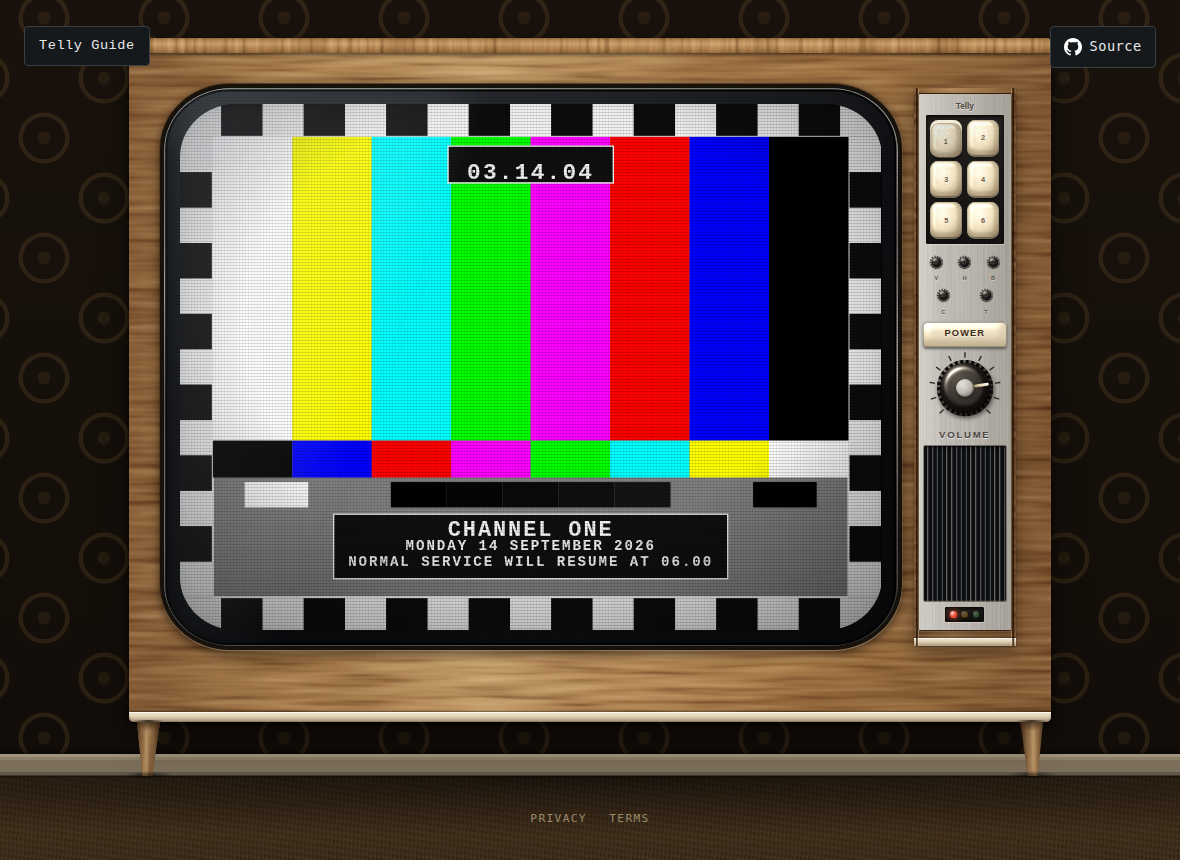
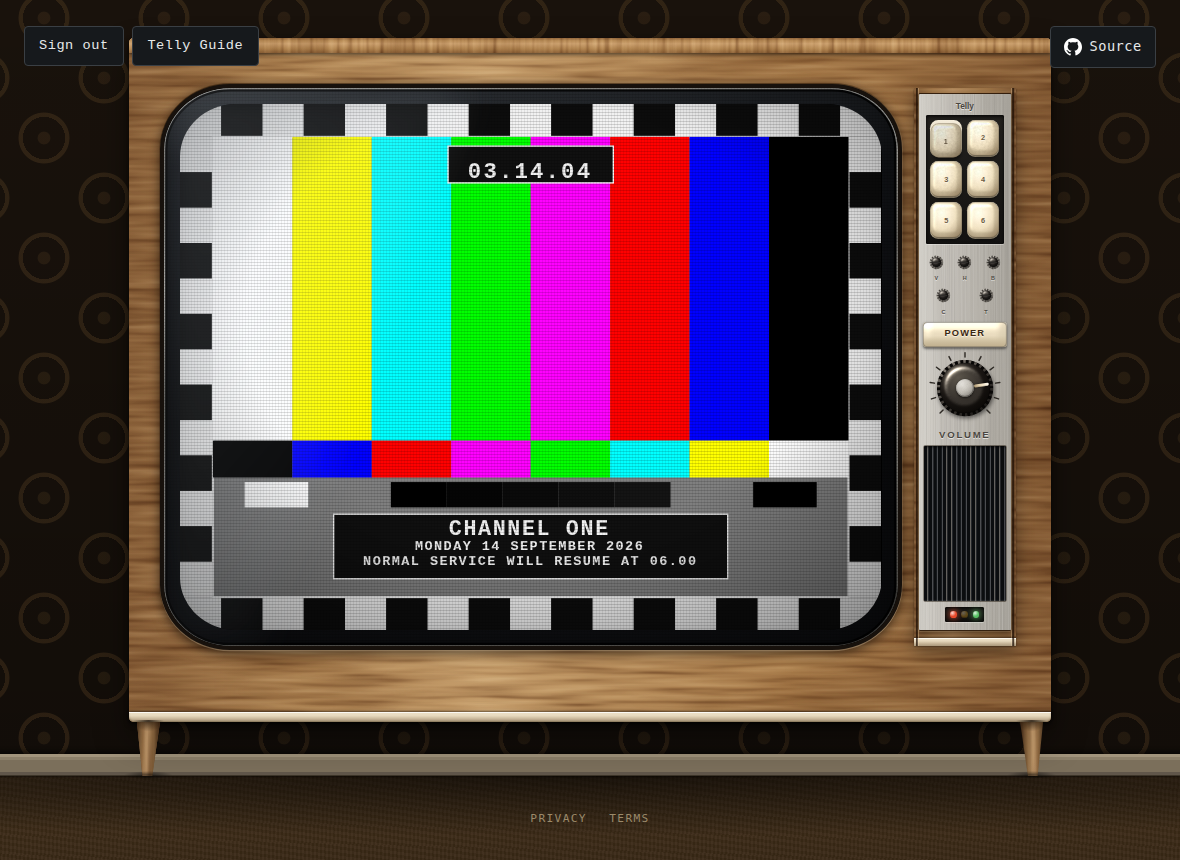
docs: trim the README, render the triage diagram, restore the Filler comment (#10)
## What this changes

- **The README is cut back to using and running telly.** It keeps what
the set is, how to run it, how to connect your subscriptions, the five
channels, and links to the privacy policy and terms. The scheduling
model, the card designs, the layout, the release process and the hosting
setup are already in `docs/architecture/`. The domain setup, why the
domain exists, and why no response headers are set were only in the
README, so they move to `release-process.md`, and threat-model rows T2,
T15 and T18 and `technologies.md` point there instead.
- **The README screenshot is retaken.** The old one came from the
fixture mode that no longer exists, so its corner showed only the Telly
Guide. The new one is the same moment on the same card, signed in, so
the corner shows Sign out and Telly Guide as it does in use.
- **The error triage diagram in `docs/architecture/google.md` renders.**
It named a node `call`, which is a Mermaid flowchart keyword, so the
diagram failed to parse. The node is `request` now.
- **`src/domain/schedule.ts` gets main's pre-#3 comment on `Filler`
back** word for word. #3's only real change there was removing
`Continuity`.

## How it was verified

- [x] `npm run test:ci`: 986 tests, 12 DST tests
- [x] `npm run typecheck`
- [x] `npm run lint`
- [x] Looked at it in a browser (if it loads, plays or paints)

The diagrams in `google.md` and `release-process.md` were run through
[…]

diff --git a/src/domain/schedule.ts b/src/domain/schedule.ts
@@ -20,14 +20,12 @@ export interface Programme {
 }
 
 /**
- * A gap, and there are only three kinds.
+ * A gap.
  *
  * `closedown` is the station off air for the night and `interlude` is a gap
- * long enough to be worth the card. `ident` is the short one: the station's
+ * long enough to be worth the card. `ident` is the short one: a station
  * symbol, held for a minute or two to bring the next programme up onto the
- * hour or the quarter. That last one is the whole of what a station did with
- * a couple of spare minutes. It did not print a caption saying what was
- * coming; it put its own mark up and started the next thing on the mark.
+ * hour or the quarter.
  */
 export interface Filler {
   kind: 'filler'

diff --git a/README.md b/README.md
@@ -6,23 +6,6 @@ and see what's on. When nothing is on, you get the test card.
 
 ![The set at closedown, showing the colour bars test card](docs/set-closedown.png)
 
-## The one idea
-
-Wall-clock time is the only input. The app never asks *what shall we play next?*
-It asks **what should be on air at 14:32:07, and how far into it are we?**
-
-That question gives you join-in-progress, closedown, overruns and the test card
-for nothing, and it collapses the whole thing into two pure functions:
-
-```ts
-plan(pool, options) -> Schedule      // deterministic, once per broadcast day
-tune(schedule, now) -> OnAir         // pure, called every tick
-```
-
-Everything else — sign-in, the API, IndexedDB, the iframe player, WebAudio — is
-I/O bolted to the edges. A whole broadcast day is provable in a millisecond,
-with no network, no browser and no real clock.
-
 ## Running it
 
 Needs **Node 20.19+ or 22.12+** (a Vite requirement); `.nvmrc` pins 24. Distro
@@ -58,12 +41,6 @@ A **Sign in with Google** button then appears. Until it does, the set shows the
 fault card: `.env.local` is deliberately not in the repository, so a fresh
 clone on a second machine has no client ID and therefore nothing to sign in to.
 
-The wording is Google's to choose, not ours: their branding guidelines permit a
-closed set of labels, and a more honest one like "Use my subscriptions" is not
-on it. Google's script is fetched on mount rather than on the click, because a
-popup must be traceable to a user gesture and that gesture does not survive a
-network round-trip.
-
 Signing in again is not needed on every visit: the browser records that consent
 was given here, and a later page load takes the grant up without a screen.
 Google expires the grant itself after a week while the app is unverified, so
@@ -71,10 +48,6 @@ the button comes back about that often. **Sign out** hands the grant back to
 Google and empties the schedule data this browser saved.
 
 Security posture, and what is stored where, is in [SECURITY.md](SECURITY.md).
-
-A daily refresh over ~200 subscriptions costs about 290 of the 10,000-unit
-quota, because IDs are batched 50 at a time. The breakdown is in
-[docs/architecture/google.md](docs/architecture/google.md).
 
 ## Five channels
 
@@ -104,170 +77,10 @@ until your subscriptions are in and five days have been planned off them. A set
 switched on while that is happening holds the station's ident, which is what a
 station with nothing to hand out yet put up.
 
-## How a day is built
-
-The broadcast day runs **06:00 → 06:00**, and positions within it are integer
-offsets from that anchor, so scheduling arithmetic has no wrapping, no timezone
-and no `Date` in it. Each station divides its day into its own parts — the full
-tables are in [docs/architecture/stations.md](docs/architecture/stations.md).
-
-**News starts on time; everything else floats.** A programme may overrun and
-push the schedule along, but a *junction* begins at its appointed second and
-anything running into it is cut short, exactly like being taken off air to go
-over to the news.
-
-Nothing age-rated goes out before nine and nothing made for children goes out
-after six, both read straight off the API. A station with a handful of
-suppliers and nineteen hours to fill repeats, twice a day at most and four
-hours apart, and the listings print (R) against it.
-
-A programme that ends at 20.57 leaves three minutes, and what a station does
-with three minutes is put its own ident up and start the next one at nine. Each
-station has its own, and they are five different mechanisms rather than five
-colours of one.
-
-Padding to a junction is the ident too, up to the three minutes a station
-would hold one for; longer gaps become the card, and a daypart with nothing
-eligible fills with card. A station that has run out
-is showing the card, which is both the honest outcome and the thematically
-correct one.
-
-## The cards
-
-Five designs, picked from the date, so a card lasts a whole broadcast day and
-every set tuned to a station shows the same one with no state anywhere to
-drift. Each station rotates through its own two or three, so tuning around
-looks different as well as sounding different.
-
-| | |
-|---|---|
-| `electronic` | the line-up chart: castellations, gratings, colour bars, greyscale wedge, convergence target |
-| `bars` | full-height colour bars, a reversed complement band, and a PLUGE strip for setting black level |
-| `monoscope` | monochrome resolution chart with a Siemens star at the centre |
-| `crosshatch` | white grid on black, for convergence and geometry |
-| `ident` | the station card: concentric colour rings and the channel name |
-
-All five are original artwork in the idiom. None reproduces an existing card or
-any broadcaster's marks — that vocabulary (colour bars, castellations, greyscale
-wedges) is standardised engineering convention and free to use; the specific
-cards people remember are authored works and are not.
-
-The card is the channel's **default state, not its error state**. It sits under
-every programme and the picture is revealed over it only once the player reports
-one actually playing. That is positive confirmation rather than error detection,
-which matters because YouTube fails quietly.
-
-![A programme slot with nothing streamable](docs/set-programme.png)
-
-## Seeing a particular hour
-
-Most of what a schedule does happens at hours you are not awake for, and the
-set has no way to jump to them. It does not need one: nothing in `src/` calls
-`new Date()` except `SystemClock`, so time is an argument.
-
-A test hands `App` a `FakeClock` and drives the day by hand:
-
-```ts
-const clock = new FakeClock(new Date(2026, 8, 9, 1, 40))
-render(<App clock={clock} />)          // closedown on one, the clip show on five
-act(() => clock.set(new Date(2026, 8, 9, 11, 58)))   // the lunchtime junction
-```
-
-There is no query parameter and no dev-only route, because a second mechanism
-for something the seam already does is a second mechanism to keep honest.
-
-## Layout
-
-```
-src/
-  domain/      the shared vocabulary: time, dayparts, videos, schedule, on-air
-  schedule/    the classifier interface and the packer
-  programming/ the five stations: genre, profiles, the draft, what goes where
-  broadcast/   tune() — wall clock in, what-is-on-air out
-  player/      the YouTube IFrame API, behind a seam
-  library/     subscriptions -> uploads -> videos; cached in IndexedDB
-  testcard/    the five card designs, their geometry, and the renderer
-  audio/       the line-up tone, the hiss, and the noises the cabinet makes
-  ui/          the screen, and the cabinet it sits in
-test/          the tests, mirroring src/; the fakes and the fixture pool in support/
-```
-
-The cabinet is drawn, not photographed: teak grain and the highlights on the
-knob and buttons are SVG filters — `feTurbulence` and `feSpecularLighting` — so
-there are no image assets and it stays sharp at any size.
-
-## Deploying it
-
-Releases are tagged, and a tag is what publishes.
-
-1. A pull request merges to `main`.
-2. `bumpversion.yml` reads the conventional commits since the last tag, works
-   out the increment, writes `CHANGELOG.md`, commits `chore(release): x.y.z`
-   and tags `vx.y.z`. A docs-only merge warrants no release and it exits
-   without one, which is a normal outcome rather than a failure.
-3. The tag fires `release.yml`, which calls the same reusable workflows a pull
-   request runs — `analysers.yml`, `tests.yml`, `codeql.yml` — against the
-   tagged commit, then builds, publishes `dist/` to GitHub Pages, and cuts a
-   GitHub release last, so a release only exists once the thing it names is
-   live.
-
-So the version, the changelog, the tag, the site and the release all describe
-one commit, and an accidental publish is not reachable from ordinary
-development: nothing in `release.yml` runs on a push or a pull request.
-
-`commit-and-tag-version` rather than commitizen: same convention, but this is a
-TypeScript stack and the version lives in `package.json` like every other tool
-here. A Python tool to read JavaScript commits would be a second toolchain to
-install, pin and explain.
-
-Three things live outside the repository:
-
-- **The client ID.** `VITE_YOUTUBE_CLIENT_ID`, a variable on the
-  `github-pages` environment. A variable rather than a secret, because it is
-  inlined into a public bundle and marking it secret would only hide it from
-  the build log. The `build` job joins that environment and reads it, and that
-  job runs behind `needs: [checks, tests, codeql]`, so a missing setting is
-  reported only once those have passed.
-- **The release App.** `COMMITLINT_CLIENT_ID` (a variable, holding the App's
-  numeric id) and `COMMITLINT_CLIENT_SECRET` (a secret, holding the App's
-  private key — the `.pem`, not the OAuth client secret it sits beside) on the
-  `commitlint` environment, from a GitHub App installed on this repository with
-  **contents: write**. This is not
-  a preference: GitHub deliberately does not fire workflows for pushes made
-  with the default `GITHUB_TOKEN`, so a bump authenticated that way would push
-  the tag and `release.yml` would never run — the site would quietly stop
-  updating with no error anywhere. An App installation token does trigger
-  downstream workflows, and unlike a personal access token it is short-lived,
-  scoped to this repository, and not tied to anybody's account.
-- **The domain.** `public/CNAME` names `telly.na-n.xyz`. The matching DNS
-  record is a CNAME at the registrar — host `telly`, value
-  `coolhandle01.github.io.` — and Settings → Pages → Custom domain has to hold
-  the same name for GitHub to issue the certificate. Tick **Enforce HTTPS**
-  once its check passes.
-
-The domain is a Google requirement rather than a hosting one. Authorised
-domains are verified in Search Console as a Domain property over DNS TXT, and
-that is impossible for `*.github.io` because you do not control its DNS. So
-`na-n.xyz` is verified at the registrar, `telly.na-n.xyz` is the homepage, and
-`https://telly.na-n.xyz` is the one authorised JavaScript origin on the OAuth
-client. Once the custom domain is set GitHub redirects the `github.io` address
-to it, so there is no second origin to keep in step.
-
-No response headers are set. GitHub Pages offers no control over them, and here
-that costs nothing: the default `Cross-Origin-Opener-Policy` is `unsafe-none`,
-which is exactly what the sign-in popup needs. Setting `same-origin` from a
-generic hardening checklist nulls `window.opener` in the popup and the callback
-never arrives — silently, with no console error. A host with a `_headers` file
-is the move if headers ever become necessary; nothing here requires them.
-
 ## Terms and privacy
 
-`public/privacy/` and `public/terms/` are served with the site, and the footer
-links them as `privacy/index.html` and `terms/index.html` — the file, so the
-link resolves on a server that does not serve directory indexes as well as on
-one that does. `/privacy/` and `/terms/` work too, and those are the URLs the
-OAuth consent screen points at. They say what telly reads, where it goes —
-nowhere — and what YouTube's own player does, which is a separate matter.
+The [privacy policy](https://telly.na-n.xyz/privacy/) and the
+[terms](https://telly.na-n.xyz/terms/) are served with the site.
 
 ## Licence
 

diff --git a/docs/architecture/threat-model.md b/docs/architecture/threat-model.md
@@ -131,7 +131,7 @@ origin, and everything on the far side of B7 is this one.
 | # | Element · STRIDE | Attacker capability | Impact | CWE | Response | Where it lives |
 |---|---|---|---|---|---|---|
 | T1 | Viewer identity · **S** | none | The app authenticates nobody. Identity is the Google session in the browser, and authorisation is a consent the viewer grants to a scope. The one identity it does learn is `ownerId()`, the signed-in account's own channel id, which keys the cache and is inside the scope already granted. | CWE-287 | **Transfer**: to Google Identity Services | `GoogleTokenProvider` in [googleTokenProvider.ts](../../src/library/googleTokenProvider.ts), `YouTubePoolSource.ownerId` in [youTubePoolSource.ts](../../src/library/youTubePoolSource.ts) |
-| T2 | Consent flow · **S** | Hosts a page that presents the same public client ID | A consent granted on an attacker's page yields a token to that page. The client ID is public by design; the authorised-JavaScript-origins list on the OAuth client is what refuses the request, and it names `https://telly.na-n.xyz` alone. | CWE-346 | **Transfer**: to Google's origin check on the OAuth client | [tokens.md](tokens.md), [README.md:240-242](../../README.md) |
+| T2 | Consent flow · **S** | Hosts a page that presents the same public client ID | A consent granted on an attacker's page yields a token to that page. The client ID is public by design; the authorised-JavaScript-origins list on the OAuth client is what refuses the request, and it names `https://telly.na-n.xyz` alone. | CWE-346 | **Transfer**: to Google's origin check on the OAuth client | [tokens.md](tokens.md), [release-process.md](release-process.md#the-domain-and-the-headers-it-does-not-set) |
 | T3 | GIS script flow · **T** | Sits on the network between the browser and `accounts.google.com` | Arbitrary JavaScript in the origin that holds the token. The script URL is `https://` and fixed, and `script-src` names the host. | CWE-494 | **Mitigate** | `GIS_SCRIPT_URL` in [googleTokenProvider.ts](../../src/library/googleTokenProvider.ts), CSP at [index.html:10](../../index.html) |
 | T4 | Token in the page · **I** | Runs any script in this origin | Read of the viewer's subscriptions for the token's remaining hour. The scope is read-only and no refresh token exists. `connect-src` permits only `self`, `googleapis.com` and `accounts.google.com`, which closes fetch, `XMLHttpRequest`, `WebSocket`, `EventSource` and `sendBeacon` to every other host. It does not reach top-level navigation or `window.open`, so a script in this origin carries the token out in a URL, and no directive covers that: `navigate-to` left CSP Level 3 in September 2022 and shipped in no browser. The hour and the read-only scope are what bound this threat; the policy narrows it. An expired token is dropped rather than kept as a fallback, and there is no renewal to attempt: a token comes from a popup, which comes from a click. | CWE-522 | **Mitigate** | `#token`, `EXPIRY_MARGIN_MS`, `GoogleTokenProvider.getAccessToken` and `signOut` in [googleTokenProvider.ts](../../src/library/googleTokenProvider.ts); [index.html:14](../../index.html) |
 | T35 | Token at rest · **I** | Has the unlocked machine, or runs code in this origin | The token is written to this tab's `sessionStorage` under `telly.google.token`, with the moment it expires, because nothing else can cross a reload: the only way to obtain one is a popup and a page load has no gesture to open one with. Holding it in memory alone was a decision to sign the viewer out on every refresh. What is exposed is a bearer token for a read-only scope that Google already limits to an hour, readable by anything already running in this origin, which is the same reach it has over the token in the page (T4). The record dies with the tab, a restored token past its hour is dropped rather than adopted, and signing out removes it whatever the revocation answers. | CWE-522 | **Accept**: the reload has to carry something, and the token is the only thing that can; the window is the tab's life or the hour, whichever ends first | `TOKEN_KEY`, `rememberToken`, `storedToken`, `resume` and `#discard` in [googleTokenProvider.ts](../../src/library/googleTokenProvider.ts), [tokens.md](tokens.md) |
@@ -162,7 +162,7 @@ origin, and everything on the far side of B7 is this one.
 | # | Element · STRIDE | Attacker capability | Impact | CWE | Response | Where it lives |
 |---|---|---|---|---|---|---|
 | T14 | `gsi/client` and `iframe_api` · **T** | Changes what `accounts.google.com` or `www.youtube.com` serves | Either script runs as first-party code beside the in-memory token, with the origin's IndexedDB and DOM. Both are unversioned, so neither carries an SRI hash. CSP is the containment that remains, and it is partial: `default-src 'none'`, `script-src` pinned to `self` and those two hosts, `object-src 'none'`, `base-uri 'self'`, `form-action 'none'`, `connect-src` naming three hosts. It governs what is fetched, framed, submitted and loaded as script. It governs no navigation at all, so script running here reaches any host by navigating to it. The page's own navigations are three anchors to constants: the two legal pages, same-origin, and the source link. The policy ships in the built artefact as well as in source. | CWE-829 | **Accept**: Google already holds the token by virtue of issuing it, and GIS is the only route to one for a browser client with no backend | [index.html:5-19](../../index.html), `dist/index.html` |
-| T15 | Response headers · **T** | none | GitHub Pages sets no response headers, and the defaults are the ones sign-in needs: `Cross-Origin-Opener-Policy` defaults to `unsafe-none`, which keeps `window.opener` alive for the consent popup, and cross-origin isolation is absent, which is what lets `gsi/client` load at all. The policy therefore travels in the document. | CWE-693 | **Accept**: the two headers a hardening checklist would add are the two that break this flow silently | [google.md](google.md), *Verification*; [README.md:244-249](../../README.md) |
+| T15 | Response headers · **T** | none | GitHub Pages sets no response headers, and the defaults are the ones sign-in needs: `Cross-Origin-Opener-Policy` defaults to `unsafe-none`, which keeps `window.opener` alive for the consent popup, and cross-origin isolation is absent, which is what lets `gsi/client` load at all. The policy therefore travels in the document. | CWE-693 | **Accept**: the two headers a hardening checklist would add are the two that break this flow silently | [google.md](google.md), *Verification*; [release-process.md](release-process.md#the-domain-and-the-headers-it-does-not-set) |
 | T16 | Outbound link · **I** | Controls the linked page | `target="_blank"` hands `window.opener` to the opened page. The link carries `rel="noreferrer noopener"` and its `href` is a constant. | CWE-1022 | **Mitigate** | `SourceLink` in [SourceLink.tsx](../../src/ui/SourceLink.tsx), `SOURCE_URL` in [App.tsx](../../src/App.tsx) |
 
 ### B4: the hosted bundle
@@ -170,7 +170,7 @@ origin, and everything on the far side of B7 is this one.
 | # | Element · STRIDE | Attacker capability | Impact | CWE | Response | Where it lives |
 |---|---|---|---|---|---|---|
 | T17 | Published bundle · **T** | Serves content at `telly.na-n.xyz` | A substituted bundle runs on the one origin the OAuth client authorises, so it obtains tokens for this client ID while the viewer reads the real domain on the consent screen. The site is published only from a tagged release's artefact, and the custom domain is pinned in the repository. | CWE-494 | **Mitigate** | [release.yml:5-7](../../.github/workflows/release.yml), [:88-98](../../.github/workflows/release.yml), [public/CNAME](../../public/CNAME) |
-| T18 | Domain · **S** | Claims the `telly` CNAME target, or the registrar account | Identical to T17, and from outside the repository. The DNS record, the Pages custom domain and `public/CNAME` all name the same host, and HTTPS is enforced on it. | CWE-350 | **Transfer**: to the registrar and to GitHub's custom-domain verification | [README.md:232-242](../../README.md) |
+| T18 | Domain · **S** | Claims the `telly` CNAME target, or the registrar account | Identical to T17, and from outside the repository. The DNS record, the Pages custom domain and `public/CNAME` all name the same host, and HTTPS is enforced on it. | CWE-350 | **Transfer**: to the registrar and to GitHub's custom-domain verification | [release-process.md](release-process.md#the-domain-and-the-headers-it-does-not-set) |
 | T19 | Host logs · **I** | GitHub | Request IPs and times. The app transmits nothing to this host beyond fetching the bundle: there is no backend, no analytics and no beacon. | CWE-359 | **Accept**: hosting is a static-file fetch and the record is GitHub's, as the privacy policy states | [public/privacy/index.html](../../public/privacy/index.html) |
 
 ### B5: repository and CI

diff --git a/docs/architecture/release-process.md b/docs/architecture/release-process.md
@@ -216,6 +216,28 @@ changing, and a poor score cannot block a merge or a release. How to run it
 usefully, and why a very low score usually means a broken harness rather than a
 bad suite, is in [testing.md](testing.md).
 
+## The domain, and the headers it does not set
+
+`public/CNAME` names `telly.na-n.xyz`. The matching DNS record is a CNAME at the
+registrar: host `telly`, value `coolhandle01.github.io.`. Settings, Pages,
+Custom domain has to hold the same name for GitHub to issue the certificate.
+Tick **Enforce HTTPS** once its check passes.
+
+The domain is a Google requirement rather than a hosting one. Authorised
+domains are verified in Search Console as a Domain property over DNS TXT, and
+that is impossible for `*.github.io` because you do not control its DNS. So
+`na-n.xyz` is verified at the registrar, `telly.na-n.xyz` is the homepage, and
+`https://telly.na-n.xyz` is the one authorised JavaScript origin on the OAuth
+client. Once the custom domain is set GitHub redirects the `github.io` address
+to it, so there is no second origin to keep in step.
+
+No response headers are set. GitHub Pages offers no control over them, and here
+that costs nothing: the default `Cross-Origin-Opener-Policy` is `unsafe-none`,
+which is what the sign-in popup needs. Setting `same-origin` from a generic
+hardening checklist nulls `window.opener` in the popup and the callback never
+arrives, silently, with no console error. A host with a `_headers` file is the
+move if headers ever become necessary; nothing here requires them.
+
 ## Not verifiable from this repository
 
 These are real parts of the process, configured in GitHub or at a registrar,

diff --git a/docs/architecture/technologies.md b/docs/architecture/technologies.md
@@ -227,11 +227,12 @@ holds that name and is published with the site. `base: './'` in `vite.config.ts`
 keeps asset paths relative. GitHub Pages offers no control over response
 headers, which is why the CSP is a meta tag; the reasoning, including why the
 default `Cross-Origin-Opener-Policy` is the one the sign-in popup needs, is in
-the [README](../../README.md).
+[release-process.md](release-process.md#the-domain-and-the-headers-it-does-not-set).
 
 The DNS record, the Pages custom-domain setting and the HTTPS enforcement are
-GitHub and registrar settings rather than files here. They are described in the
-README and cannot be verified from the repository.
+GitHub and registrar settings rather than files here. They are described in
+[release-process.md](release-process.md#the-domain-and-the-headers-it-does-not-set)
+and cannot be verified from the repository.
 
 ## Build-time configuration
 

diff --git a/docs/architecture/google.md b/docs/architecture/google.md
@@ -93,9 +93,9 @@ The rule is: **is this error about *them* or about *us*?**
 
 ```mermaid
 flowchart TB
-  call(["a playlistItems.list call, inside #get"]) --> limited{"429, or rateLimitExceeded / userRateLimitExceeded"}
+  request(["a playlistItems.list call, inside #get"]) --> limited{"429, or rateLimitExceeded / userRateLimitExceeded"}
   limited -->|"yes, and a backoff step is left"| wait["wait 1s, 2s, 4s, 8s in turn, each plus up to 1s of jitter"]
-  wait --> call
+  wait --> request
   limited -->|"no, or the backoff is spent"| fail
   fail(["a playlistItems.list call throws, inside #listRecentVideoIds"]) --> fatal{"isFatal"}
   fatal -->|"401, 403, 429, any QuotaExceededError"| stop(["rethrown: no further playlist starts, and the whole load fails"])
